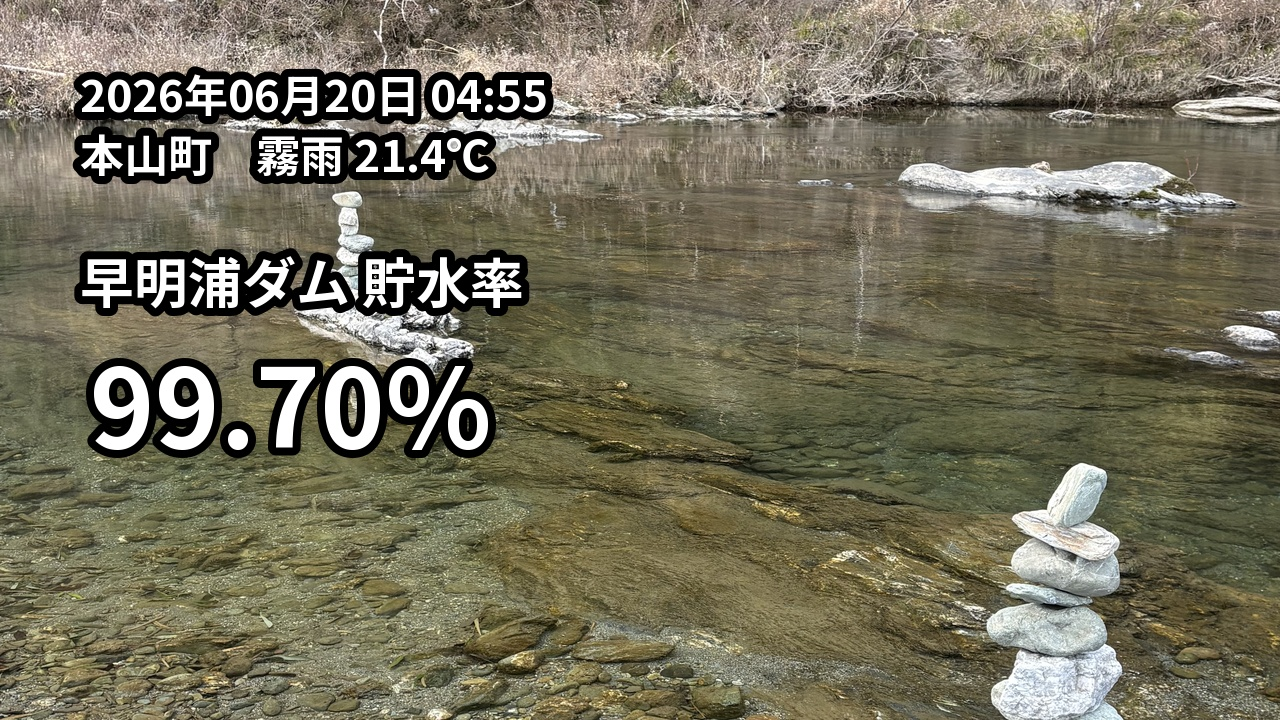
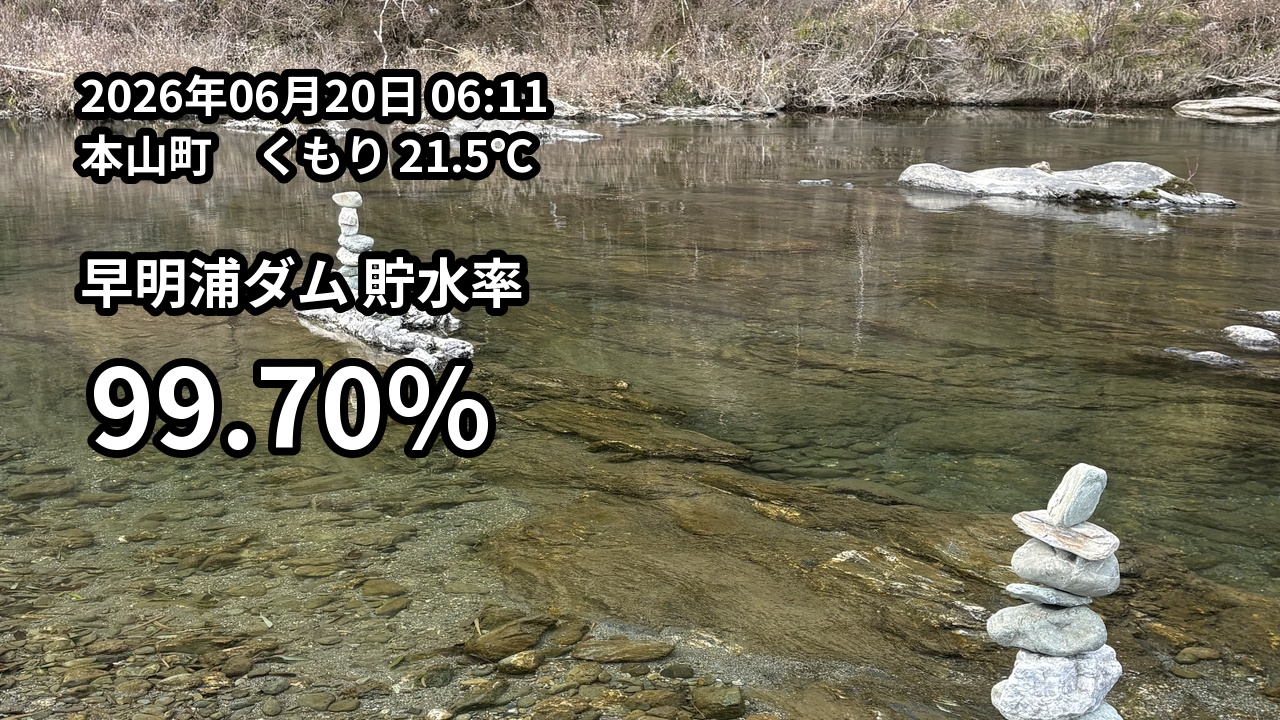
Update daily image

Changed region(s): [[0.1875, 0.0917, 0.4375, 0.275]]

diff --git a/index.html b/index.html
@@ -10,6 +10,6 @@
   </style>
 </head>
 <body>
-  <img src="result.jpg?v=202606200455" alt="早明浦ダム 貯水率" />
+  <img src="result.jpg?v=202606200611" alt="早明浦ダム 貯水率" />
 </body>
 </html>
